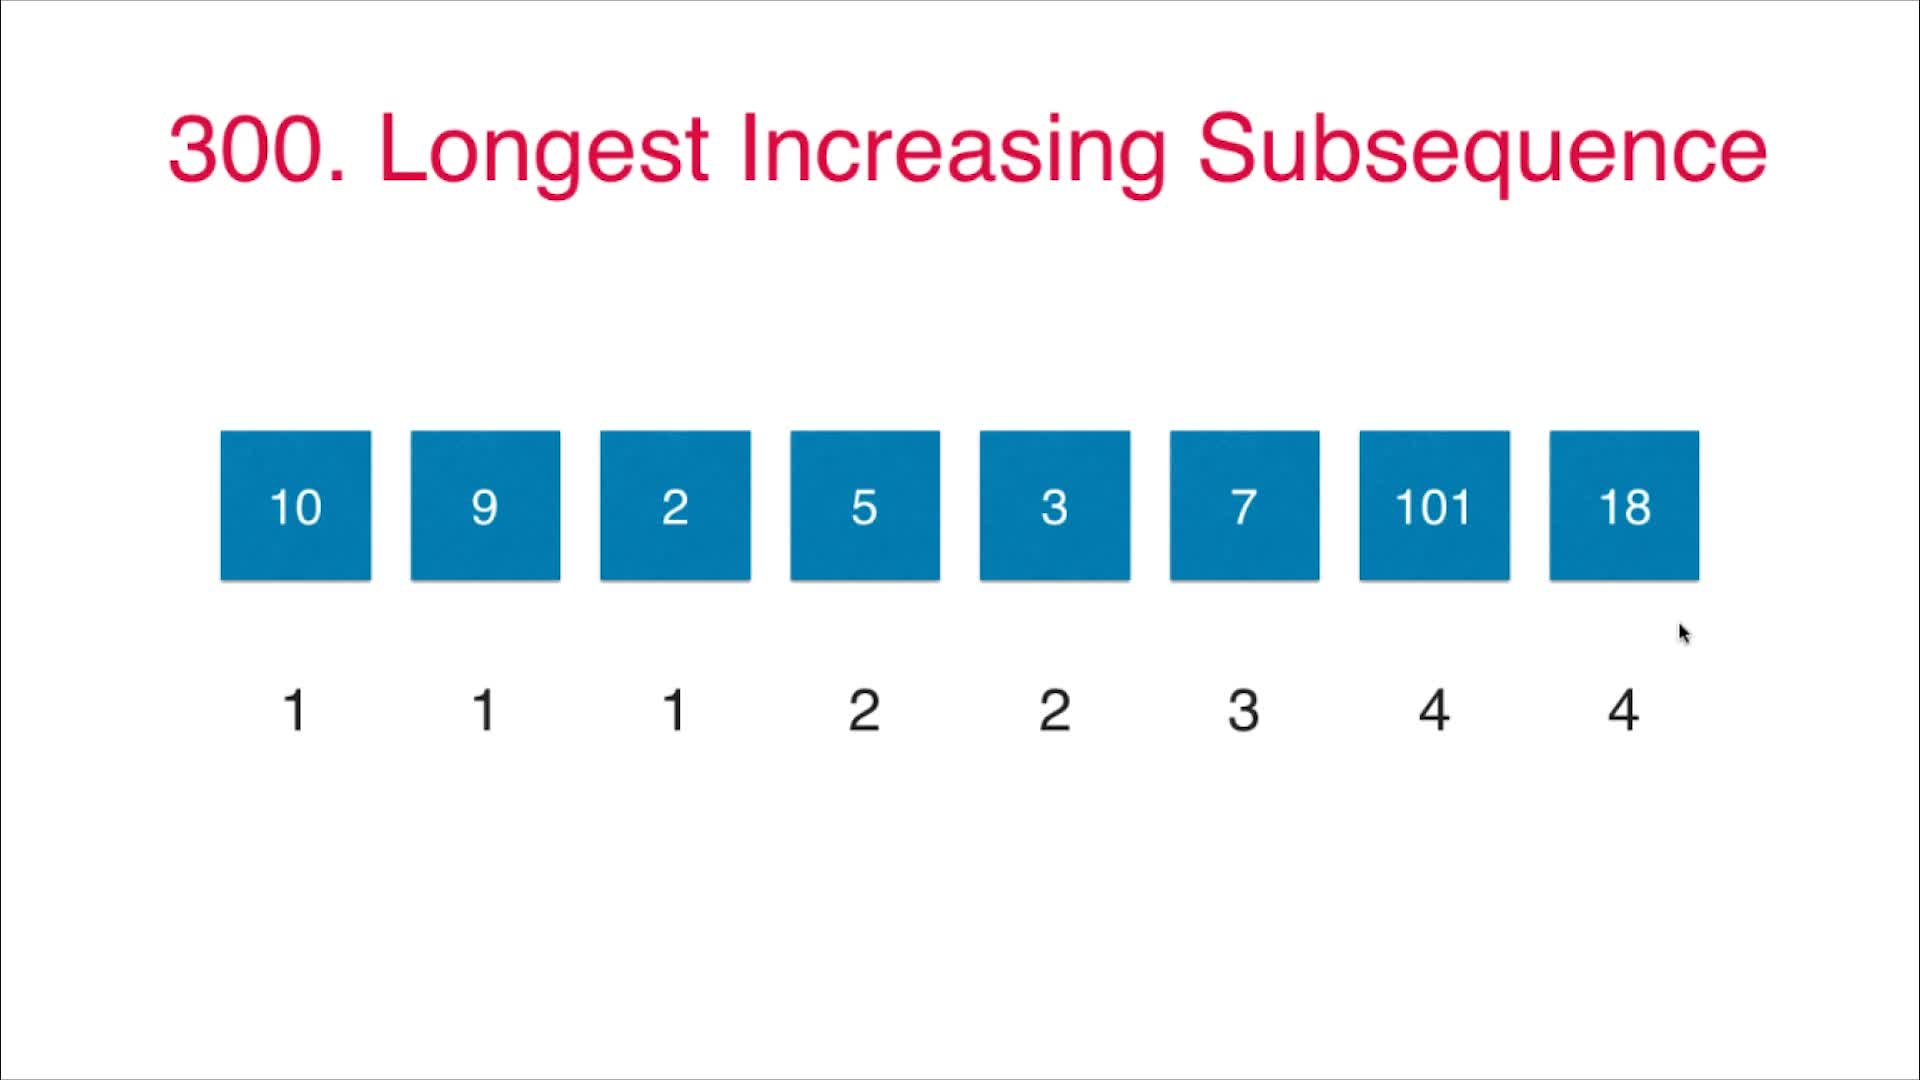
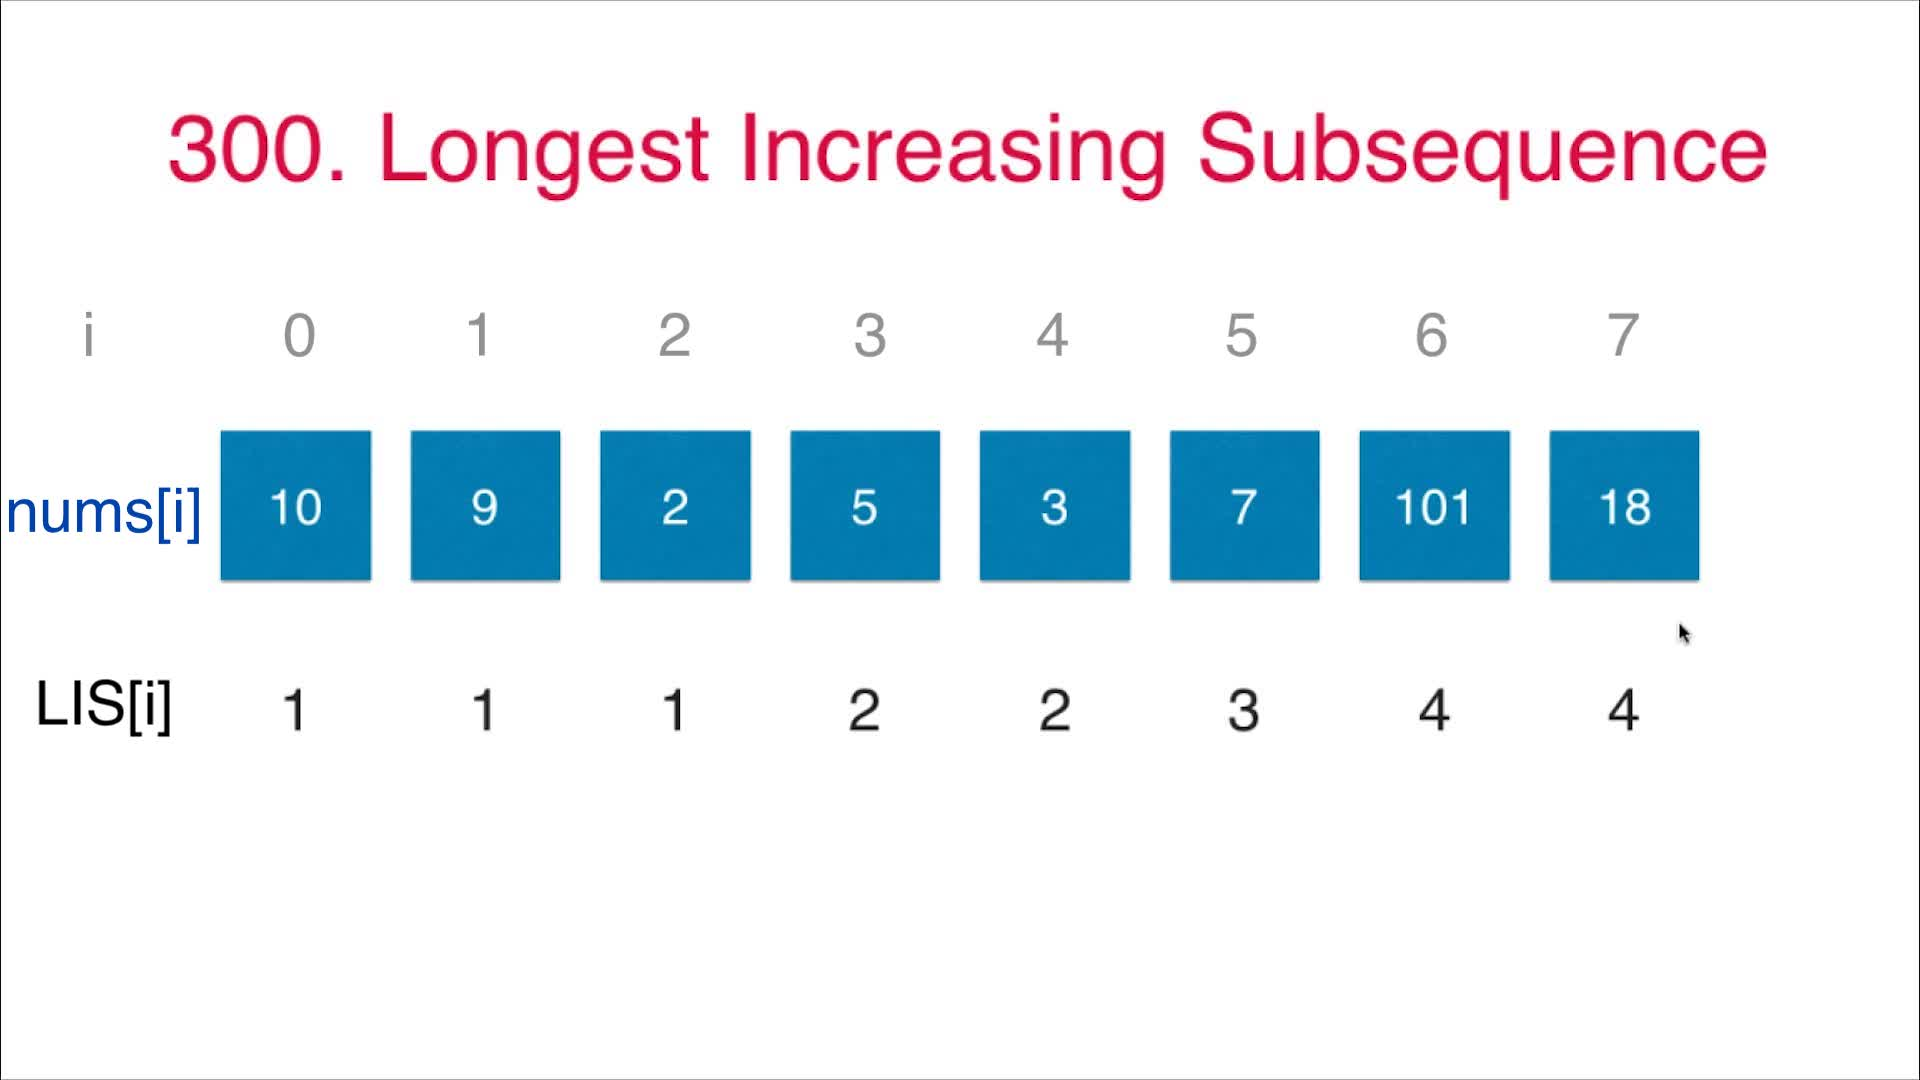
图片完善

diff --git a/Part3Practise/第09章_动态规划.md b/Part3Practise/第09章_动态规划.md
@@ -806,10 +806,8 @@ for (int i = 1; i < nums.length; i++) {
 ### 最长上升子序列举例
 
 #### 例子1：
-
-
 ![最长上升子序列举例](src/main/java/Chapter09DynamicAllocate/Section8LongestIncreasingSubsequence/最长上升子序列举例.jpg)
-
++ i=0, nums[i]=10，前面没有元素了，所以LIS
 #### 例子2：
 + 最长上升必须列的值不一定是递增地，每个位置的最长上升子序列的值不一定是前面的加1
 + 每个位置的最长上升子序列的值不一定是前面的加1
